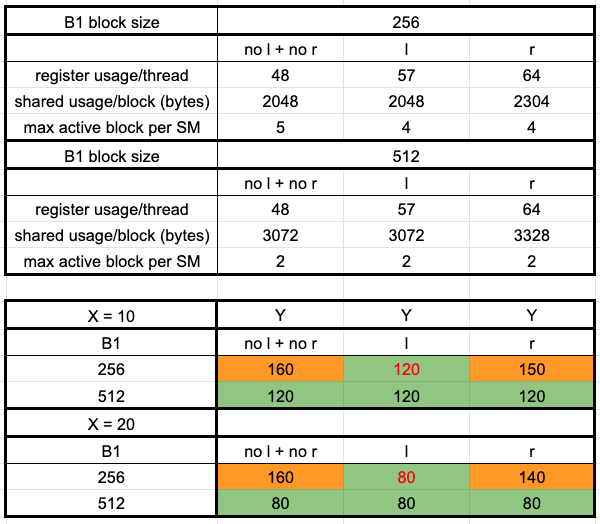
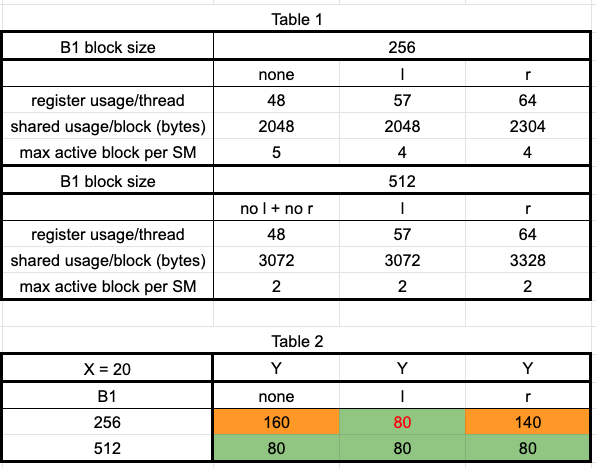
update persist launch problem

Changed region(s): [[0.0, 0.0, 0.9966, 1.0], [0.5436, 0.1795, 0.5738, 0.2094]]

diff --git a/_posts/2020-04-08-PersistLaunch.md b/_posts/2020-04-08-PersistLaunch.md
@@ -8,34 +8,36 @@ share: false
 ---
 
 This post assumes that you have basic knowledge of persistent kernel on GPU. 
-Beside limitation such as max threads allowed per block, max blocks allowed per SM, how many blocks allowed to resident on the GPU thus could run concurrently largely depend on register usage and shared memory usage of each block. When I was debuging my code which uses persistent kernel on V100, I found something weird. The code which can reproduce the weird behavior is commited and push to owens runtime-paper repo, branch charmap_queue commit: b3978519bd6754861c463418cf1432a7c6e2cf38. Here is the summary of what I have experimented.
+Besides limitations such as "max threads per block" and "max blocks per SM", the number of blocks that can reside on the GPU and run concurrent is usually limited by register usage and shared memory usage of each block . When I was debugging my code which uses persistent kernel on V100, I found something unexpected: The code which can reproduce the unexpected behavior is commited and push to Owens' runtime-paper repo, branch charmap_queue commit: b3978519bd6754861c463418cf1432a7c6e2cf38. Here is the summary of my experiment:
 
-In the experiment, runtime system is not launched only the BFSCTA kernels are launched. I would like to launch BFSCTA kernel with smaller blocks and fetch size, so that those threads are more responsive (high priority queue). At the same time, I would like to launch BFSCTA kernel on a different stream with larger block and fetch size (low priority queue). In other words, I would like to launch a kernel with two configuarations (block and fetch size) on two streams. The two launched configurations will share the GPU and I need all of launched blocks resident on GPU and run concurrently. 
+In the experiment, the runtime system is not launched, and only the BFSCTA kernels are launched. I would like to launch BFSCTA kernel with smaller blocks and fetch size, so that those threads are more responsive (high priority queue). At the same time, I would like to launch BFSCTA kernel on a different stream with larger block and fetch size (low priority queue). In other words, I would like to launch a kernel with two configuarations (block and fetch size) on two streams. The two launched configurations will share the GPU and I need all of launched blocks to reside on GPU and to run concurrently. 
 
 Let's define our first configuration of BFSCTA: 
-	* **B1**: block size of first launched kernel,
-	* **B2**: block size of secondly launched kernel,
-	* **F1**: Fetch size of first launched kernel, 
-	* **F2**: Fetch size of secondly launched kernel,
-	* **X**: Number of blocks of first launch with configuration (B1, F1),
-	* **Y**: Number of blocks of second launch with configuratoin (B2, F2)
+   * **B1**: block size of first launched kernel,
+   * **B2**: block size of second launched kernel,
+   * **F1**: Fetch size of first launched kernel, 
+   * **F2**: Fetch size of secondly launched kernel,
+   * **X**: Number of blocks of first launched kernel with configuration (B1, F1),
+   * **Y**: Number of blocks of second launched kernel with configuratoin (B2, F2)
+We need **X** **B1**-size blocks and **Y** **B2**-size blocks all reside on GPU and max the GPU occupancy. 
 
-We need **X** **B1** size blocks and **Y** **B2** size blocks all reside on GPU and max the GPU occupancy. 
+Inside the kernel (BFSCTA ), I have two lines of code:
+   1. push low priority work to low priority queue (**l**ocal)
+   2. push communication to communication queue (**r**emote)  
+In the following experiments, `none` indicates we comment out both code 1 and 2, `l` indicates we comment out only code 2, `r` indicates we comment out only code 1. You could think in the way we have three different kernel each has different register and shared memory usage. 
 
-In side the kernel (BFSCTA ), I have two lines of code:
-	1. push low priority work to low priority queue 
-	2. push communication to communication queue.  
-
-In the following experiments, `no r + no l` indicates we comment out both two lines, `l` indicates we comment out only second line, `r` indicates we comment out only first line, and `r + l` indicates we didn't comment out any of the two lines. 
-
-We will fix **B2**, **F1** **F2** and **X** and see how **Y** changes as **B1** changes in three cases: `no r + no l`, `l`, `r`. The results of `r + l` is the same as `r`, so we didn't include it here.
+We will fix **B2**, **F1** **F2** and **X** and see how **Y** changes as **B1** changes in three cases: `none`, `l`, `r`. 
 
 ![](https://github.com/YuxinxinChen/YuxinxinChen.github.io/blob/master/images/persist.png)
 
-From the top table, `r` and `l` use more register and `r` uses more shared memory, and the max active blocks is limited by register usage not shared memory usage. The limiting factor is register usage in all the cases shown in top table. We would expect in the case of `r`, **Y** should be less than that of case `l` and `no l + no r` since `r` uses more registers. However, from the bottom table, **B1** equals 256 case, `l` has the lowest **Y**. 
+I summarize the unexpected observations below:
 
-Another weird thing in the bottom table is **Y**'s value when **B1** equals 512 case and `l` case when **B1** euqals 256 (gree area).  The yellow area, those **Y**'s value is inligned with my calcuations where when register usage is 48, a SM can take 2 512-block and 1 256-block, and when register usage is 64, a SM can only take 2 512-block or 1 256-block plus 1 512-block. The **Y**'s value in the green area is super weird. I looked into how the scheduler assign SM to each blocks and the green area follows the same scheduing pattern. The following figure uses the case (**B1**=256, **X**=20) to illustrate the pattern. Other cases in the green area apply the same pattern.
+1. From the top table, the register usage is ordered 'none < l < r', and shared memory usage is ordered 'none = l < r'. In all cases shown in the top table, the limiting factor is register usage, so we can ignore shared memory usage. We would expect that "**Y** in case `r`" < "**Y** in case `l` < "**Y** in case none", i.e. inverse order of register usage. However, from the bottom table, when **B1** equals 256, `l` has the lowest **Y**. 
+
+2. Another unexpected behavior corresponds to the green cells in Table 2. In all these cells, **Y** is lower than expected from calculating SM usage. I looked into how the scheduler actually assigned the SMs to each block, and noticed a discrepency with the documented scheduler behavior. I illustrate the unexpected behavior in following Figure for the case (**B1**=256, **X**=20, `l`), though I note that all the other green cells demonstrate the same unexpected behavior. As seen in the Figure, the SM 2,4,6...40 are unused. 
 
 ![](https://github.com/YuxinxinChen/YuxinxinChen.github.io/blob/master/images/sms.png)
 
-Note, configuration **B1**=256, **X**=20 will be launched first and then the second configuration. The scheduler will put the 20 block of first configuration on SM 1,3,5 ... 39. However, the scheduler will not schedule the blocks of second configuration on SM 1,2,3 ... 40, though there is space!
+In contrast, the yellow cells exhibit expected behavior, and the **Y** values are in line with my calcuations (when register usage is 48, a SM can take 2 512-block and 1 256-block, and when register usage is 64, a SM can only take 2 512-block or 1 256-block plus 1 512-block) as the following Figure shows (**B1** = 256, **X**=2, `r`).
+
+![](https://github.com/YuxinxinChen/YuxinxinChen.github.io/blob/master/images/sms2.png)
